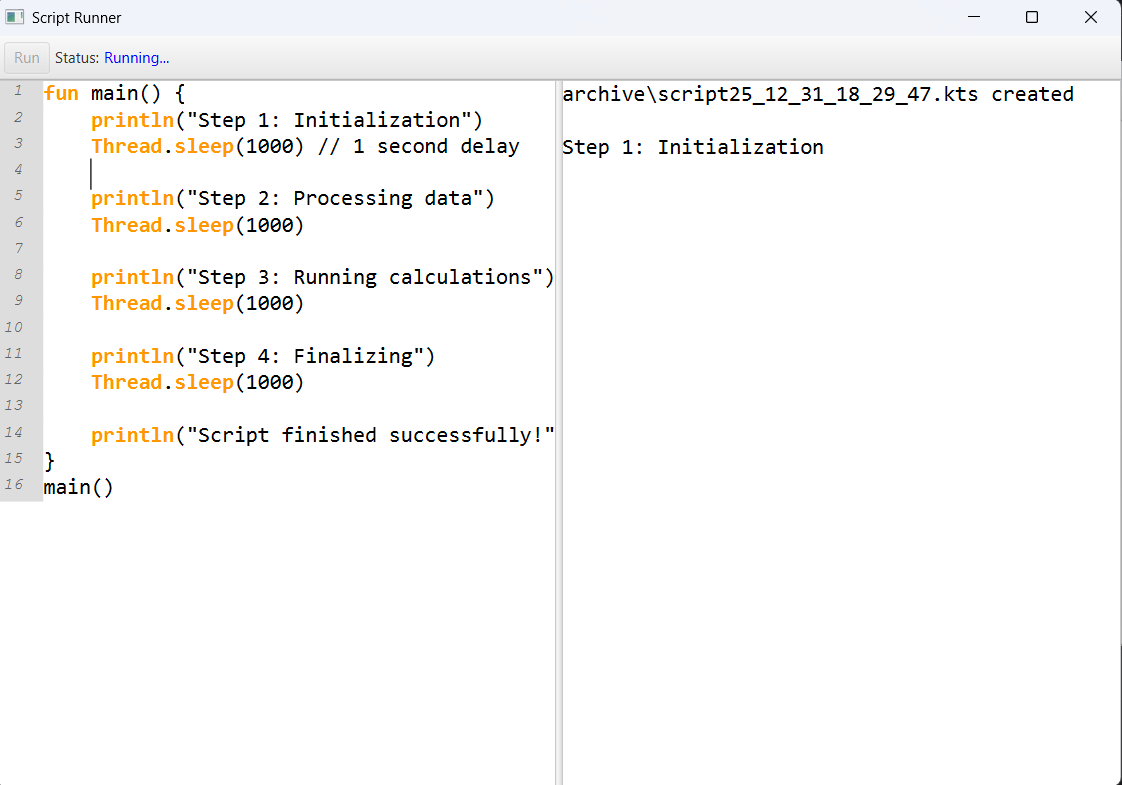
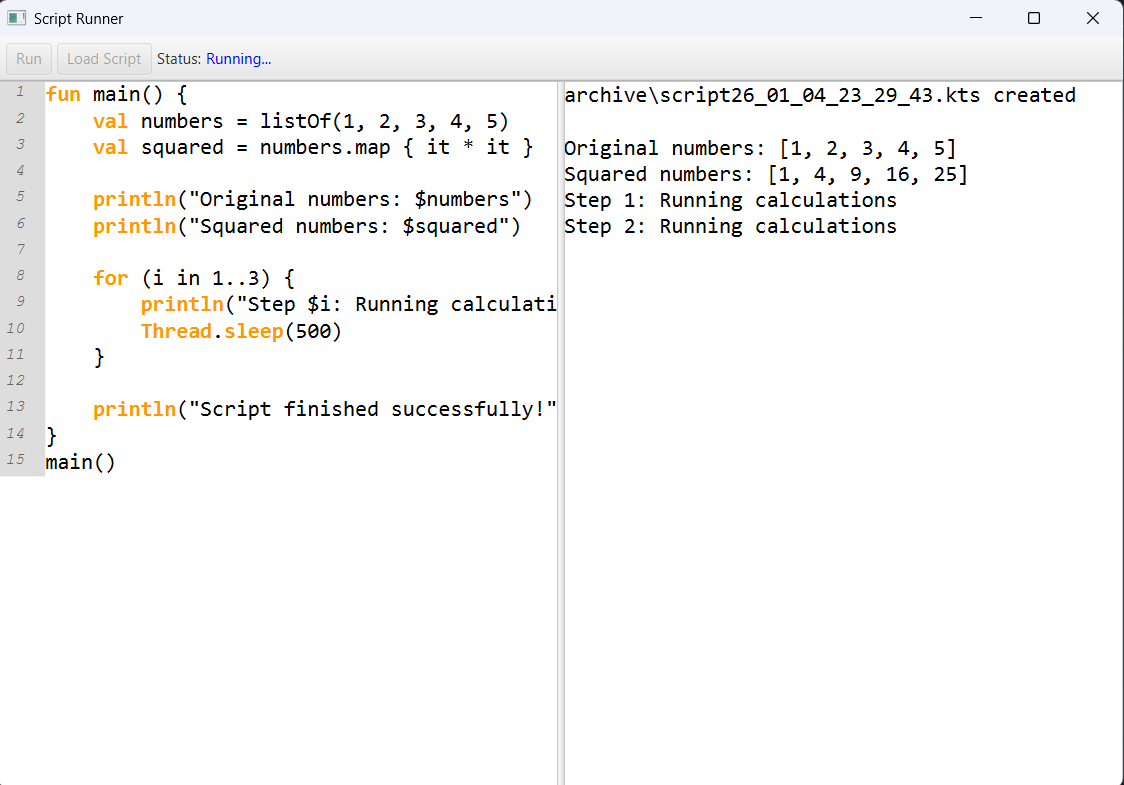
Final changes to second required functionality

diff --git a/src/main/java/org/example/controller/MainController.java b/src/main/java/org/example/controller/MainController.java
@@ -4,6 +4,7 @@ import javafx.application.Platform;
 import javafx.fxml.FXML;
 import javafx.scene.control.Button;
 import javafx.scene.control.Label;
+import javafx.stage.FileChooser;
 import org.fxmisc.richtext.CodeArea;
 import org.fxmisc.richtext.LineNumberFactory;
 import java.io.*;
@@ -18,7 +19,7 @@ import java.util.regex.Matcher;
 import java.util.regex.Pattern;
 
 public class MainController {
-    /// KEYWORDS LOGIC
+
     private Set<String> keywords;
     private final List<ErrorLocation> errorLocations = new ArrayList<>();
 
@@ -32,16 +33,12 @@ public class MainController {
 
     @FXML
     public void initialize() {
-        /// KEYWORDS LOGIC
         keywords = loadKeywords();
-//        System.out.println("Keywords loaded: " + keywords);
 
-        /// KEYWORDS LOGIC
         scriptArea.setStyle("-fx-font-family: 'Consolas'; -fx-font-size: 13pt;");
         scriptArea.setWrapText(false);
         scriptArea.setParagraphGraphicFactory(LineNumberFactory.get(scriptArea));
 
-        /// KEYWORDS LOGIC
         outputArea.setStyle("-fx-font-family: 'Consolas'; -fx-font-size: 13pt;");
         outputArea.setWrapText(true);
         outputArea.setEditable(false);
@@ -57,8 +54,6 @@ public class MainController {
                 }
             }
         });
-
-
         setStatus(ScriptStatus.WAITING);
     }
 
@@ -75,9 +70,33 @@ public class MainController {
     private Label statusLabel;
 
     @FXML
+    private Button loadButton;
+
+    @FXML
+    private void onLoadScript() {
+        FileChooser fileChooser = new FileChooser();
+
+        fileChooser.getExtensionFilters().add(
+                new FileChooser.ExtensionFilter("Kotlin Script", "*.kts")
+        );
+
+        File selectedFile = fileChooser.showOpenDialog(scriptArea.getScene().getWindow());
+        if (selectedFile != null) {
+            try {
+                String content = Files.readString(selectedFile.toPath());
+                scriptArea.replaceText(content);
+            } catch (IOException e) {
+                appendLine("Failed to load script: " + e.getMessage(), "error");
+            }
+        }
+    }
+
+    @FXML
     private void onRun() {
 
+        errorLocations.clear();
         outputArea.clear();
+
         setStatus(ScriptStatus.RUNNING);
 
         DateTimeFormatter formatDate = DateTimeFormatter.ofPattern("yy_MM_dd_HH_mm_ss");
@@ -100,6 +119,7 @@ public class MainController {
 
                 ProcessBuilder pb = new ProcessBuilder(
                         kotlinPath,
+                        "-script",
                         scriptPath.toAbsolutePath().toString()
                 );
 
@@ -178,24 +198,28 @@ public class MainController {
                     statusLabel.setText("Waiting for user action");
                     statusLabel.getStyleClass().add("status-waiting");
                     runButton.setDisable(false);
+                    loadButton.setDisable(false);
                     break;
 
                 case RUNNING:
                     statusLabel.setText("Running...");
                     statusLabel.getStyleClass().add("status-running");
                     runButton.setDisable(true);
+                    loadButton.setDisable(true);
                     break;
 
                 case SUCCESS:
                     statusLabel.setText("Finished successfully");
                     statusLabel.getStyleClass().add("status-success");
                     runButton.setDisable(false);
+                    loadButton.setDisable(false);
                     break;
 
                 case ERROR:
                     statusLabel.setText("Finished with error");
                     statusLabel.getStyleClass().add("status-error");
                     runButton.setDisable(false);
+                    loadButton.setDisable(false);
                     break;
             }
         });
@@ -210,14 +234,12 @@ public class MainController {
         }
     }
 
-
     private void appendLine(String text, String type) {
         int start = outputArea.getLength();
-        //Platform.runLater(() -> outputArea.appendText(text + "\n"));
+
         outputArea.appendText(text + "\n");
         int end = outputArea.getLength();
 
-        /// KEYWORDS LOGIC
         switch (type) {
             case "error" -> outputArea.setStyle(start, end, Collections.singleton("-fx-fill: red; -fx-font-weight: bold;"));
             case "success" -> outputArea.setStyle(start, end, Collections.singleton("-fx-fill: green;"));
@@ -233,7 +255,6 @@ public class MainController {
         highlightErrors(outputArea.getText());
     }
 
-    /// KEYWORDS LOGIC
     private Set<String> loadKeywords() {
         Set<String> keywords = new HashSet<>();
         try {
@@ -271,6 +292,9 @@ public class MainController {
     }
 
     private void highlightErrors(String text) {
+
+        errorLocations.clear();
+
         outputArea.clearStyle(0, text.length());
         Pattern ERROR_PATTERN = Pattern.compile( ":(\\d+):(\\d+):");
 
@@ -294,7 +318,3 @@ public class MainController {
         }
     }
 }
-
-
-
-

diff --git a/README.md b/README.md
@@ -10,9 +10,9 @@ The application provides a side-by-side editor and output pane, supports live ou
 - **Kotlin Interpreter** must be installed.  
 - Download Kotlin compiler from the [official release](https://github.com/JetBrains/kotlin/releases/tag/v2.3.0) (scroll to Assets and download `kotlin-compiler-2.3.0.zip`).  
 - Unzip the compiler anywhere on your system.  
-- Update the path in `config/kotlin-path.txt` to point to your local `kotlin.bat` file.
+- Update the path in `config/kotlin-path.txt` to point to your local `kotlinc.bat` file.
 
-Example is in `kotlin-path.txt` content `C:\kotlin\kotlinc\bin\kotlin.bat` :
+Example is in `kotlin-path.txt` content `C:\kotlin\kotlinc\bin\kotlinc.bat` :
 
 ---
 
@@ -76,6 +76,22 @@ Script contains errors. Status shows Finished with error. Output pane shows deta
 
 -Running Script:
 While the script is executing, the Run button is disabled, and the status shows Running.... Live output continues to populate as the script runs.
+
+---
+
+## Application Preview
+
+### Main Editor and Output View
+![Editor and Output](screenshots/Waiting.png)
+
+### Running Script (Live Output)
+![Running Script](screenshots/Running.png)
+
+### Error Handling & Navigation
+![Error Navigation](screenshots/ClickableError.png)
+
+### Successful Execution
+![Success Run](screenshots/Success.png)
 
 ---
 
